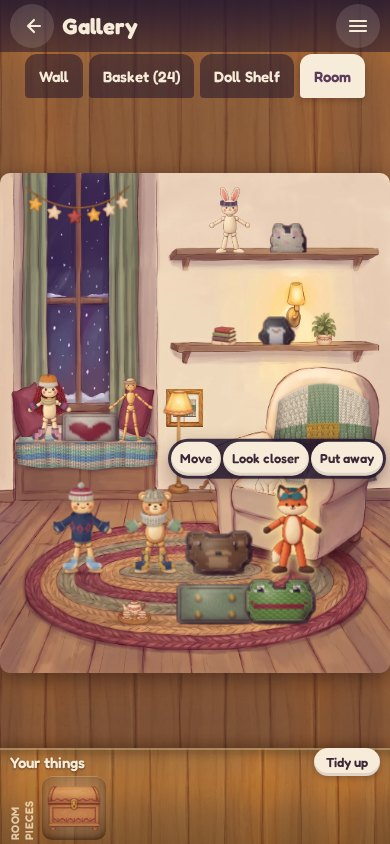
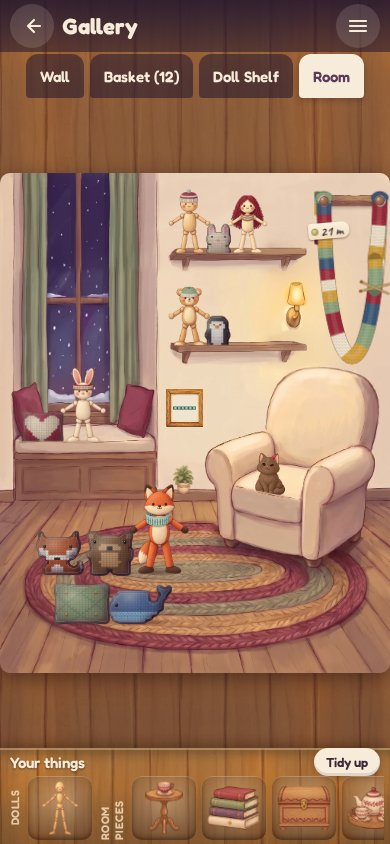
README: request 9, the scarf in the room and stuffed toys; status
Refreshed room.jpg (the roomier shelves, a 7 m scarf swagging across
the pegs with its tag and needles, stuffed pillows) and room-phone.jpg
(a 21 m scarf in loops), added pillow-closeup.jpg, and quoted request 9
with its three changes in "How it was made".

diff --git a/README.md b/README.md
@@ -69,6 +69,11 @@ you hang it on your gallery wall.
 |---|---|
 | ![The finished screen: "Bound off and blocked!", the Snowflake Mitten shown on Pip the doll](media/screenshots/finished.jpg) | ![The gallery wall: a star, socks, a teddy bear, a sweater, a blanket, a strawberry pouch, a fox, a shawlette, a cowl and a stocking hanging on pegs](media/screenshots/gallery.jpg) |
 
+Pillows and toys are sewn up and stuffed, so they look soft and plump wherever they show: in
+the gallery, the close-up, the finished screen, the Pattern Book and the room.
+
+<img src="media/screenshots/pillow-closeup.jpg" width="320" alt="A close-up of a finished Heart Pillow: a cream heart knit into cranberry stockinette, puffed up and stuffed, with soft pinched corners">
+
 ## The dolls
 
 Meet Pip, Clementine, Bramble, Juniper, Basil, Mabel and Purl herself, and dress them in the hats,
@@ -83,13 +88,20 @@ pieces wear as true tubes: a hat wraps the head, a cowl circles the neck, socks 
 
 Bring everyone together in a little painted room. Drag your dolls, Purl, the toys you knit,
 your pillows and blankets onto the rug, the armchair, the shelves and the window seat, dressed
-in whatever they wear. Unlock room pieces as you knit (a side table, a plant, storybooks, a toy
-chest, a tea set, a star garland, a floor lamp and a frame that shows your newest piece). The
-room stays just as you left it.
+in whatever they wear. Your toys and pillows sit there plump and stuffed, and the shelves have
+room enough for the dolls up top to stand tall. Unlock room pieces as you knit (a side table, a
+plant, storybooks, a toy chest, a tea set, a star garland, a floor lamp and a frame that shows
+your newest piece). The room stays just as you left it.
+
+Your Infinite Scarf hangs on a peg rail above the armchair, in the colours you knit it, with its
+needles still in the last row and a tag with its length. It grows as you knit: a scarf folded
+over a peg, then swags from peg to peg, then rows of garlands (on a phone, loops hanging down),
+and past 100 m a knitting bag on the last peg, stuffed with the rest. Tap it for **Knit more**,
+and come back to see how far it has grown.
 
 | | |
 |---|---|
-| ![The cozy room: dolls and knitted toys on a braided rug, Purl in the armchair under a patchwork blanket, a star garland in the snowy window and a bunny and a penguin on the shelves](media/screenshots/room.jpg) | ![The same room on a phone, with the fox doll selected and its Move, Look closer and Put away buttons showing](media/screenshots/room-phone.jpg) |
+| ![The cozy room: Pip in a bobble hat and Clementine in a cowl on the top shelf with a knitted bunny, Bramble and a penguin on the low shelf, a heart pillow and Juniper on the window seat, Purl in the armchair, Basil, a fox, a teddy bear, a cushion and a whale on the rug, and a 7 m striped scarf swagging across three pegs with its tag and needles](media/screenshots/room.jpg) | ![The same room on a phone, the scarf, now 21 m, hanging down beside the shelves in two long loops](media/screenshots/room-phone.jpg) |
 
 ## The Knitting Bag
 
@@ -104,7 +116,8 @@ nothing ever knits for you.
 
 A scarf that never ends. Every row adds a centimeter. **How long is it?** stands it up beside
 the last thing it passed and the next one, from a mug and a guitar to a giraffe, a blue whale,
-the Leaning Tower of Pisa and, someday, the Moon, with a knitting fact every so often.
+the Leaning Tower of Pisa and, someday, the Moon, with a knitting fact every so often. It also
+hangs on the wall of the cozy room, growing across its pegs as you knit.
 
 | | |
 |---|---|
@@ -162,12 +175,29 @@ Meanwhile, four reports filed with the game's own "Report a bug" button (going b
 
 > --fix all --publish --no-confirm
 
+And three more changes, all asked for at once:
+
+> Do all three gamegen changes you suggested then publish no-confirm.
+
+The three were:
+
+- `--change repaint the cozy room's landscape picture with more space between the shelves so dolls up top are bigger`:
+  the room's shelves were moved apart and the dolls on them drawn about a third bigger, with a
+  peg rail painted in for the scarf. The pictures were recomposed in Pillow from the old ones,
+  with no new generation ($0).
+- `--change make pillows and toys look soft and stuffed in the gallery close-up too`: pillows and
+  toys are drawn sewn up and stuffed everywhere they show, not as flat knitted pieces.
+- `--change let the infinite scarf hang in the cozy room, growing across the wall as it gets longer`:
+  the Infinite Scarf hangs on the room's pegs in your own colours, from a fold to swags,
+  garlands or loops, and a knitting bag past 100 m, with its length tag, live needles, Knit more
+  and a little moment when you come back and it has grown.
+
 gamegen designed the game, had review agents polish the design, made the art, animation, music
 and sound with these plugins, built it, and play-tested it:
 
 | | |
 |---|---|
-| <img src="media/made-with/nanogen-nook.jpg" width="180" alt="The painted knitting nook"> | [nanogen](https://github.com/zeveck/nanogen): the knitting nook and the cozy room (landscape and portrait), the wood, paper and yarn-fibre textures, and the knitted swatches the stitch drawing was tuned against. |
+| <img src="media/made-with/nanogen-nook.jpg" width="180" alt="The painted knitting nook"> | [nanogen](https://github.com/zeveck/nanogen): the knitting nook and the cozy room (landscape and portrait, later recomposed in Pillow for roomier shelves and the scarf's pegs), the wood, paper and yarn-fibre textures, and the knitted swatches the stitch drawing was tuned against. |
 | <img src="media/made-with/imagegen2-cast.png" width="180" alt="Purl, a teacup yarn bowl, and the dolls Pip, Clementine, Bramble and Basil, and a giraffe"> | [imagegen2](https://github.com/zeveck/imagegen2): Purl, her basket, the yarn balls, the six dolls, the 20 scarf comparisons (mug to redwood), the yarn holders, nook decor and finishing touches, the props, the room pieces (table, plant, storybooks, toy chest, tea set, garland and lamp) and the app icon. |
 | <img src="media/made-with/anim8gen-purl-cheer.gif" width="120" alt="Purl waking up in her basket and waving a paw"> | [anim8gen](https://github.com/zeveck/anim8gen): Purl's cheer when you finish a piece. |
 | <img src="media/made-with/audiogen-wave.png" width="180" alt="The waveform of one of the nook songs"> | [audiogen](https://github.com/zeveck/audiogen): 5 songs (three for the nook, one for the gallery, one for the scarf) and 23 sounds, from wooden, metal and glass needle clicks to Purl's mew and purr, and the soft click of a round being joined. |

diff --git a/design/STATUS.md b/design/STATUS.md
@@ -101,8 +101,9 @@ Order: these land before changes 2 and 3 are built.
 - [x] 9b plush look in the gallery close-up — fe58996 (plush.js dome + pillows, render/finished/cardRenderer); check-chart/patterns pass; room tray thumbnails still flat (room build to use plushPiece)
 - [x] 9a+9c spec (CHANGE_4.md, d92962b) + one short review round; refined 2385666 — player/art review DONE (.gamegen/review/c4-player-art.md), builder review DONE (c4-builder.md: 1 must-fix hook handling, 5 should)
 - [x] 9a repaint room-land ($0, Pillow recompose, 4de375e; top-shelf doll 58–59 px at 844x390) + 9c scarf on pegs (roomScarf.js, 30f8423, ef0d4f8; fixture 6e3a7b7; GAME_DESIGN fold d4f4045); solutions 47/47 + migration
-- [ ] Final review DONE (.gamegen/review/fr9.md: needles hidden, scarf hit rect over frame, stage line under toast + nice; 40 km scarf-screen crash below bar); fixes RUNNING (progress fix9.md)
-- [ ] README/design/art page updates; publish; live check
+- [x] Final review DONE (.gamegen/review/fr9.md: needles hidden, scarf hit rect over frame, stage line under toast + nice; 40 km scarf-screen crash below bar); fixes DONE (4e2fb28 needles always free, hit areas off the frame, stage line after the toasts; 2d409a0 scarf screen survives a 40 km scarf); fr9 fixed
+- [x] README (cozy room + scarf sections, request 9 quoted with 9a–9c, room/room-phone refreshed, pillow-closeup.jpg added), art sheet rebuilt (room-land/port captions; phone patch reapplied) and design page + plans card updated in the gallery clone (36fd170, 365edaf), committed locally only, not pushed. Seen in the wrap-up: in portrait, opening the room (Room tab or reload) draws toys and pillows stretched wide; a window resize redraws them right (not fixed here)
+- [ ] Publish; live check
 
 ## Handoff (2026-11-25 02:46 UTC, before context compaction)
 
